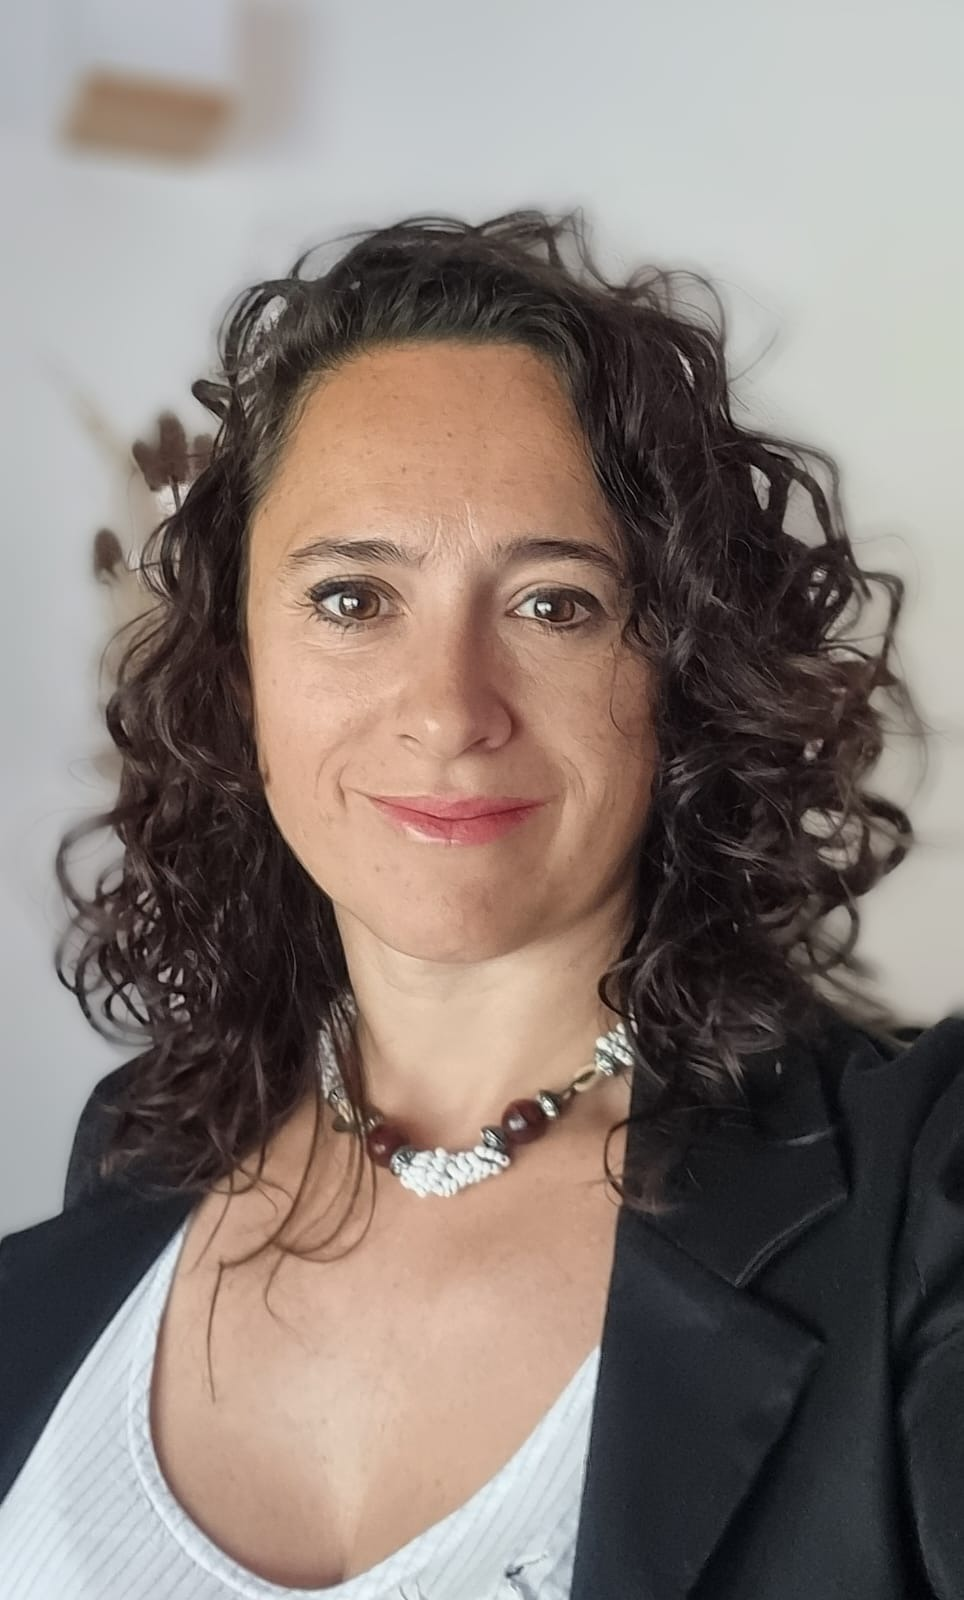
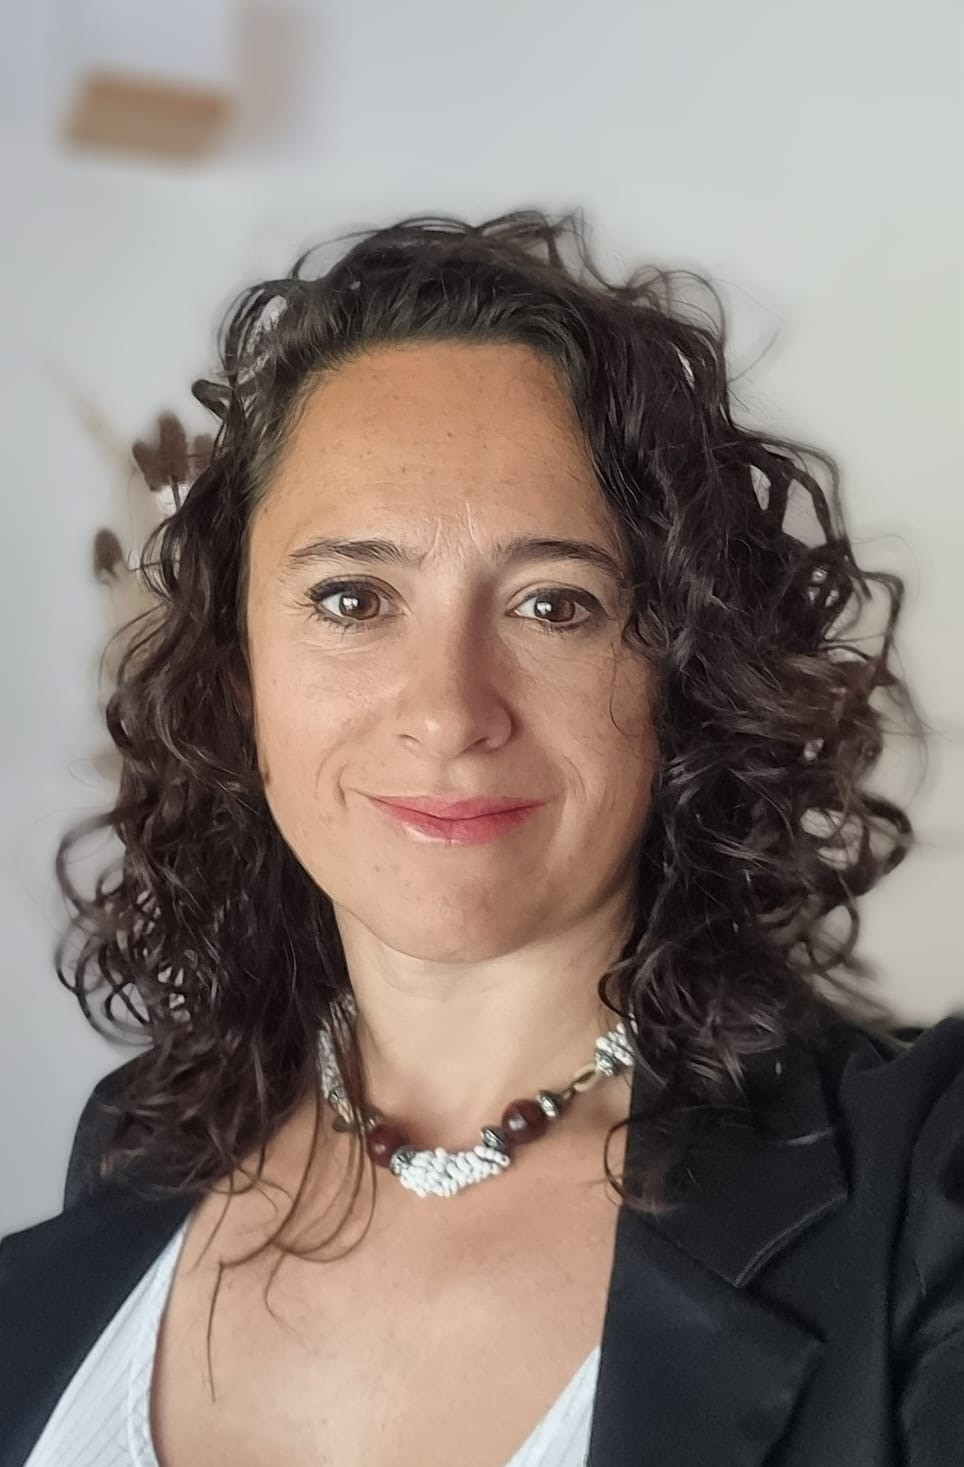
Comentarios worker: casilla destino = ispylogistica@gmail.com (corrige typo)

diff --git a/worker/src/index.js b/worker/src/index.js
@@ -1,7 +1,7 @@
 // ISPL → Resend (HTTP API). Sin SMTP, sin deps.
 // Secretos (wrangler secret put, NUNCA en el repo):
 //   RESEND_API_KEY  → key `re_...` (una sola vez, solo en Cloudflare)
-//   DEST_EMAIL      → isplylogistica@gmail.com
+//   DEST_EMAIL      → ispylogistica@gmail.com
 const SITE_ORIGIN = "https://diegogimenez04.github.io";
 
 const ALLOWED_ORIGINS = new Set([SITE_ORIGIN]);
